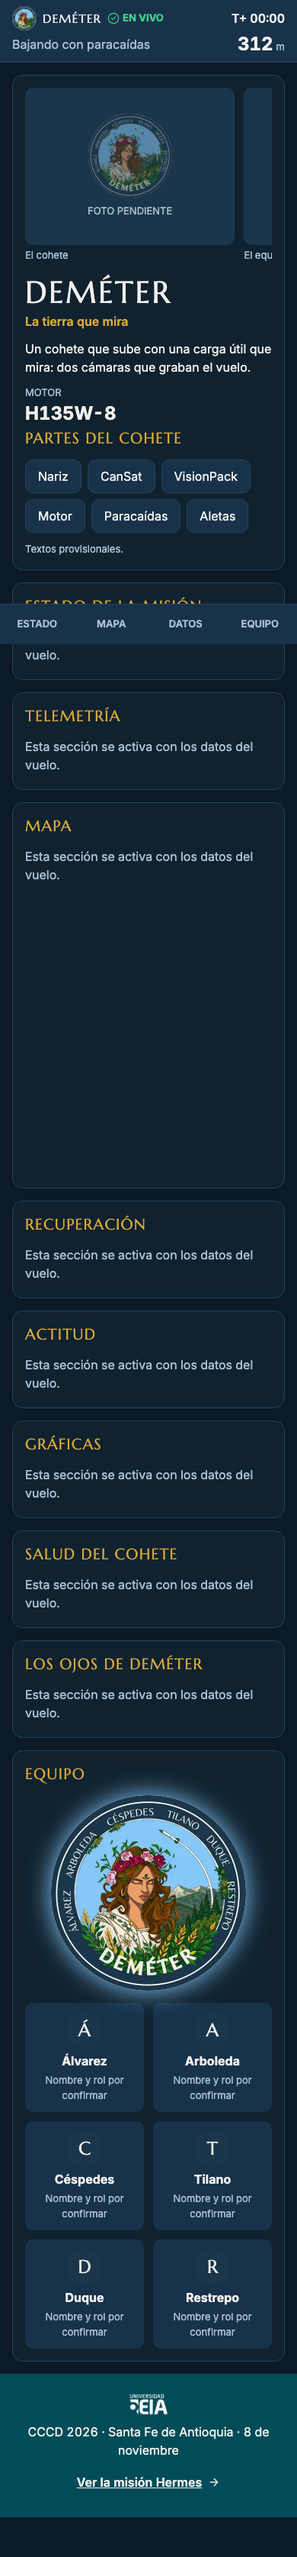
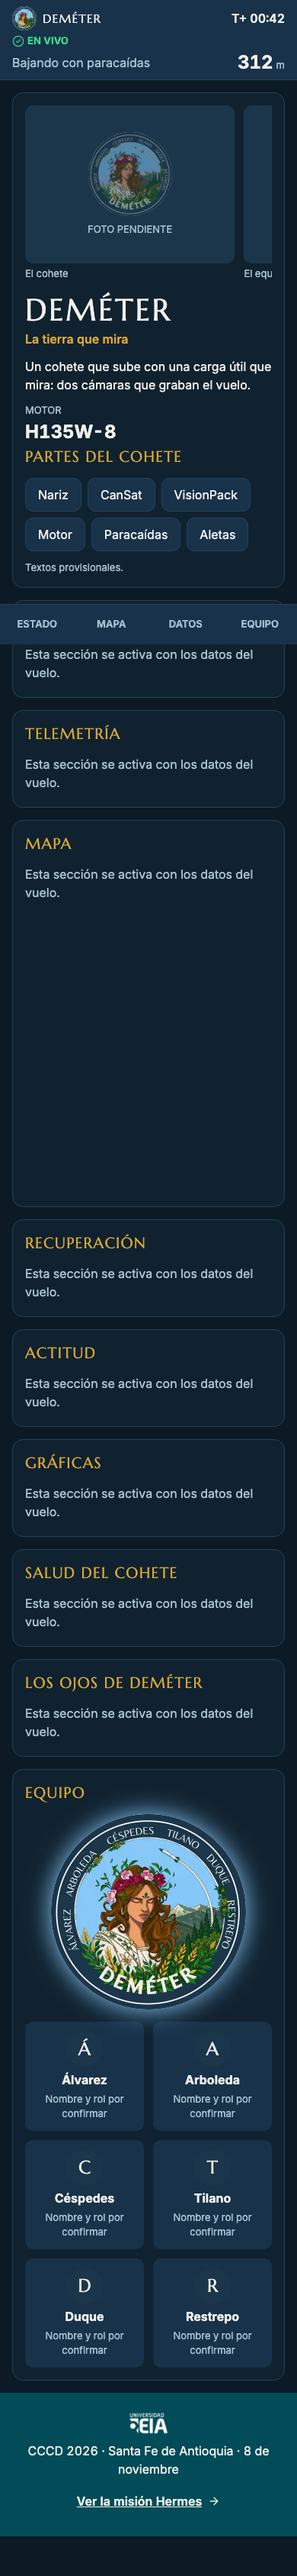
fix(web): estado de la barra sin recorte y T+ con el reloj del cohete [T-622]
La barra pasa a 3 filas en celular para que el estado nunca se trunque (e2e a
360 y 390 px). El T+ se calcula con t_ms del estado menos el del despegue (o
el de un evento con T+), no con el reloj local. El ejemplo de desarrollo
agrega el despegue y un estado coherente (los ejemplos del contrato no lo traen).

Probado: build, npm test (86) y npm run e2e (51) en verde.
Refs: T-622
Claude-Session: https://claude.ai/code/session_01CWmhNoH3oWNJWhHGJ1UGgU

diff --git a/gui/web/e2e/mision.spec.ts b/gui/web/e2e/mision.spec.ts
@@ -67,6 +67,8 @@ for (const m of MISIONES) {
         await page.goto(`${DEV}/${m.id}/?ejemplo`);
         await expect(page.locator(".indicador")).toContainText("EN VIVO");
         await expect(page.locator(".barra-fase")).toHaveText("Bajando con paracaídas");
+        // T+ con el reloj del cohete: el estado de ejemplo va 42 s después del despegue.
+        await expect(page.locator(".barra-t")).toHaveText("T+ 00:42");
         await expect(page.locator(".barra-alt .num")).toHaveText("312");
         await expect(page.locator(".barra-nombre")).toHaveText(m.nombre);
         // El tema de cada misión: el fondo es el token --fondo de su archivo de tema.
@@ -161,6 +163,43 @@ test.describe("la barra en cada estado (desarrollo, ?ejemplo=...)", () => {
       expect(await sinDesborde(page)).toBe(true);
       await page.screenshot({ path: `${CAPTURAS}/barra-${e.v}-390x844.png` });
     });
+  }
+});
+
+// El estado de la conexión nunca se recorta: es lo que el público lee al sol (T-622).
+test.describe("el texto del estado no se recorta", () => {
+  const VARIANTES = [
+    { v: "en_vivo", texto: "EN VIVO" },
+    { v: "senal_debil", texto: "Señal débil" },
+    { v: "sin_senal", texto: "Sin señal" },
+    { v: "reconectando", texto: "Sin servidor" },
+    { v: "sin_transmision", texto: "Sin transmisión" },
+    { v: "simulacion", texto: "EN VIVO" },
+  ];
+  for (const ancho of [360, 390]) {
+    for (const mision of ["demeter", "hermes"]) {
+      test(`${mision} a ${ancho} px`, async ({ page }) => {
+        await page.setViewportSize({ width: ancho, height: 844 });
+        for (const e of VARIANTES) {
+          await page.goto(`${DEV}/${mision}/?ejemplo=${e.v}`);
+          const ind = page.locator(".indicador");
+          await expect(ind).toContainText(e.texto);
+          const medidas = await page.evaluate(() => {
+            const el = document.querySelector(".indicador") as HTMLElement;
+            const hijos = [el, ...Array.from(el.querySelectorAll("span"))] as HTMLElement[];
+            const caja = el.getBoundingClientRect();
+            return {
+              recortado: hijos.some((h) => h.scrollWidth > h.clientWidth),
+              derecha: caja.right,
+              ancho: document.documentElement.clientWidth,
+            };
+          });
+          expect(medidas.recortado, `${mision} ${e.v} a ${ancho}`).toBe(false);
+          expect(medidas.derecha, `${mision} ${e.v} a ${ancho}`).toBeLessThanOrEqual(medidas.ancho);
+          expect(await sinDesborde(page)).toBe(true);
+        }
+      });
+    }
   }
 });
 

diff --git a/gui/web/src/mision/ejemplo_dev.ts b/gui/web/src/mision/ejemplo_dev.ts
@@ -9,6 +9,8 @@ import { alimentar } from "../datos/api";
 
 const MS_POR_S = 1000;
 const EDAD_SENAL_DEBIL_S = 3;
+/** T+ del estado de ejemplo. El `ejemplos.ts` original trae el estado ANTES de sus eventos. */
+const T_MAS_EJEMPLO_S = 42;
 const EDAD_SIN_SENAL_S = 38;
 
 export async function cargarEjemplo(mision: Mision): Promise<void> {
@@ -20,15 +22,41 @@ export async function cargarEjemplo(mision: Mision): Promise<void> {
   const base: Snapshot = variante === "sin_transmision" ? snapshotVacioEjemplo : snapshotEjemplo;
   // Los ejemplos son de Deméter: para Hermes se adaptan la misión y el nodo (y no hay Pi).
   const hermes = mision === "hermes";
+  // Los ejemplos del contrato no traen el evento `despegue` y su estado (t_ms 1234567) es anterior
+  // a su apogeo (t_ms 1245900). Para ver un T+ coherente se agrega el despegue (el instante que
+  // implican sus eventos) y se adelanta el estado. Solo desarrollo; el contrato no se toca.
+  const apogeo = base.eventos.find((e) => e.tipo === "apogeo");
+  const tDespegueMs =
+    apogeo && apogeo.t_mas_s !== null ? apogeo.t_ms - apogeo.t_mas_s * MS_POR_S : null;
+  const eventos =
+    tDespegueMs === null
+      ? base.eventos
+      : [
+          {
+            tipo: "despegue" as const,
+            t_ms: tDespegueMs,
+            utc_ms: null,
+            t_mas_s: 0,
+            valor: null,
+            fase: null,
+            activa: null,
+          },
+          ...base.eventos,
+        ];
   const s: Snapshot = {
     ...base,
+    eventos,
     meta: {
       ...base.meta,
       mision,
       nodo: hermes ? 2 : 1,
       modo: variante === "simulacion" ? "simulacion" : base.meta.modo,
     },
-    estado: base.estado && { ...base.estado, secundario: hermes ? null : base.estado.secundario },
+    estado: base.estado && {
+      ...base.estado,
+      t_ms: tDespegueMs === null ? base.estado.t_ms : tDespegueMs + T_MAS_EJEMPLO_S * MS_POR_S,
+      secundario: hermes ? null : base.estado.secundario,
+    },
     salud: base.salud && { ...base.salud, temp_pi_c: hermes ? null : base.salud.temp_pi_c },
     estacion:
       base.estacion && variante === "senal_debil"

diff --git a/gui/web/pruebas/mision.test.ts b/gui/web/pruebas/mision.test.ts
@@ -1,5 +1,6 @@
 import { describe, expect, it } from "vitest";
 import { estadoEjemplo, eventoEjemplo, eventoFaseEjemplo } from "../src/contrato/ejemplos";
+import type { Evento } from "../src/contrato/tipos";
 import { indicadorDe, tMasSegundos } from "../src/mision/BarraMision";
 import { hace, numero, tMas } from "../src/mision/formato";
 
@@ -24,12 +25,33 @@ describe("formato (02 §5)", () => {
 });
 
 describe("barra de misión", () => {
-  it("T+ parte del último evento con T+ y avanza con el reloj del cohete", () => {
-    const evs = [eventoEjemplo, eventoFaseEjemplo];
-    const t = tMasSegundos(estadoEjemplo, evs);
-    expect(t).toBeCloseTo(15.64 + (estadoEjemplo.t_ms - eventoFaseEjemplo.t_ms) / 1000, 6);
+  const despegue: Evento = {
+    tipo: "despegue",
+    t_ms: 1_000_000,
+    utc_ms: null,
+    t_mas_s: 0,
+    valor: null,
+    fase: null,
+    activa: null,
+  };
+
+  it("T+ = (t_ms del estado - t_ms del despegue) / 1000, con el reloj del cohete", () => {
+    const est = { ...estadoEjemplo, t_ms: 1_042_500 };
+    expect(tMasSegundos(est, [despegue])).toBeCloseTo(42.5, 6);
+    // Con otros eventos después, sigue contando desde el despegue (no desde el último evento).
+    expect(tMasSegundos(est, [despegue, eventoEjemplo, eventoFaseEjemplo])).toBeCloseTo(42.5, 6);
+  });
+
+  it("sin evento despegue usa un evento con T+ (mismo instante de despegue); sin ninguno, null", () => {
+    // eventoEjemplo: T+ 11,54 s en t_ms 1245900 -> despegue en t_ms 1234360.
+    const est = { ...estadoEjemplo, t_ms: 1_234_360 + 20_000 };
+    expect(tMasSegundos(est, [eventoEjemplo, eventoFaseEjemplo])).toBeCloseTo(20, 6);
     expect(tMasSegundos(estadoEjemplo, [])).toBeNull();
-    expect(tMasSegundos(null, evs)).toBeNull();
+    expect(tMasSegundos(null, [despegue])).toBeNull();
+  });
+
+  it("antes del despegue (T+ negativo) no inventa un tiempo", () => {
+    expect(tMasSegundos({ ...estadoEjemplo, t_ms: 900_000 }, [despegue])).toBeNull();
   });
 
   it("cada estado principal tiene su color de estado y una palabra", () => {

diff --git a/gui/web/src/mision/mision.css b/gui/web/src/mision/mision.css
@@ -51,10 +51,12 @@ button:focus-visible,
 
 .barra-enlace {
   display: grid;
-  grid-template-columns: auto auto minmax(0, 1fr) auto;
+  /* Tres filas para que el estado (lo que el público lee al sol) nunca se recorte, ni a 360 px. */
+  grid-template-columns: auto minmax(0, 1fr) auto;
   grid-template-areas:
-    "p n e t"
-    "f f f a";
+    "p n t"
+    "e e e"
+    "f f a";
   align-items: center;
   gap: var(--e-1) var(--e-2);
   min-height: var(--toque-min);
@@ -82,9 +84,9 @@ button:focus-visible,
 .barra-estado {
   grid-area: e;
   display: flex;
+  flex-wrap: wrap;
   align-items: center;
   gap: var(--e-2);
-  min-width: 0;
 }
 
 .indicador {
@@ -96,11 +98,6 @@ button:focus-visible,
   font-weight: 700;
   text-transform: uppercase;
   white-space: nowrap;
-}
-
-.indicador > span {
-  overflow: hidden;
-  text-overflow: ellipsis;
 }
 
 .indicador svg,
@@ -146,9 +143,6 @@ button:focus-visible,
   grid-area: f;
   min-width: 0;
   color: var(--texto-2);
-  overflow: hidden;
-  text-overflow: ellipsis;
-  white-space: nowrap;
 }
 
 .barra-alt {
@@ -255,7 +249,7 @@ button:focus-visible,
   background: var(--superficie);
   border: 1px solid var(--linea);
   border-radius: var(--radio-tarjeta);
-  scroll-margin-top: var(--alto-cabecera);
+  scroll-margin-top: calc(var(--alto-cabecera) + var(--e-4));
 }
 
 .seccion > h2,

diff --git a/gui/web/src/mision/BarraMision.tsx b/gui/web/src/mision/BarraMision.tsx
@@ -46,14 +46,19 @@ export function indicadorDe(principal: EstadoPrincipal): Indicador {
   }
 }
 
-/** T+ en segundos: el último evento con T+ más lo que avanzó el reloj del cohete desde entonces. */
+/**
+ * T+ en segundos con el reloj del COHETE, no el del celular: `estado.t_ms` menos el `t_ms` del
+ * despegue, más su `t_mas_s`. Si no hay evento `despegue`, usa el primer evento con T+ (cada uno
+ * da el mismo instante de despegue: `t_ms - t_mas_s * 1000`). Sin ninguno, `null`: no se inventa.
+ */
 export function tMasSegundos(est: Estado | null, evs: Evento[]): number | null {
   if (est === null) return null;
-  for (let i = evs.length - 1; i >= 0; i--) {
-    const ev = evs[i];
-    if (ev && ev.t_mas_s !== null) return ev.t_mas_s + (est.t_ms - ev.t_ms) / MS_POR_S;
-  }
-  return null;
+  const ref =
+    evs.find((e) => e.tipo === "despegue" && e.t_mas_s !== null) ??
+    evs.find((e) => e.t_mas_s !== null);
+  if (!ref || ref.t_mas_s === null) return null;
+  const t = ref.t_mas_s + (est.t_ms - ref.t_ms) / MS_POR_S;
+  return t < 0 ? null : t;
 }
 
 function textoFase(principal: EstadoPrincipal, est: Estado | null): string {

diff --git a/docs/07_bitacora/2026-10-25_T-622_armazon_mision.md b/docs/07_bitacora/2026-10-25_T-622_armazon_mision.md
@@ -56,3 +56,9 @@ rama: feature/T-622-armazon-mision
 
 ## Documentos afectados
 Ninguno de los contratos. `06_plan_web.md`: T-622 lista para marcar como hecha al integrar el PR.
+
+## Ajustes tras la revisión del PR #17
+- **Estado sin recorte.** La barra pasa a 3 filas en celular y tableta: parche, nombre y T+; el estado (con SIM) solo en una fila; fase y altitud. Se quitó el `text-overflow: ellipsis` del indicador. Prueba e2e a 360 y 390 px, en las dos misiones y en 6 variantes (`scrollWidth <= clientWidth` del indicador y de sus `span`, y que no pase del borde derecho). `scroll-margin-top` sube 16 px por la barra más alta.
+- **T+ con el reloj del cohete.** `T+ = t_ms del estado − t_ms del despegue + t_mas_s`. Sin evento `despegue`, usa el primer evento con `t_mas_s` (todos dan el mismo instante); sin ninguno o antes del despegue, `null` (`T+ --:--`). Pruebas unitarias con un despegue y un estado conocidos.
+- **Hallazgo:** `contrato/ejemplos.ts` no trae el evento `despegue`, y su estado (`t_ms` 1234567) es anterior a su apogeo (`t_ms` 1245900), así que el cálculo correcto daba 0,2 s ("00:00"): era el ejemplo, no el reloj. En `ejemplo_dev.ts` (solo desarrollo) se agrega el despegue implícito (`t_ms` del apogeo − 11,54 s) y se adelanta el estado a T+ 42 s. El contrato no se tocó. Propuesta para D: que `ejemplos.ts` tenga un estado coherente con sus eventos.
+- Evidencia: build, `npm test` (86) y `npm run e2e` (51) en verde; capturas de la barra regeneradas.
